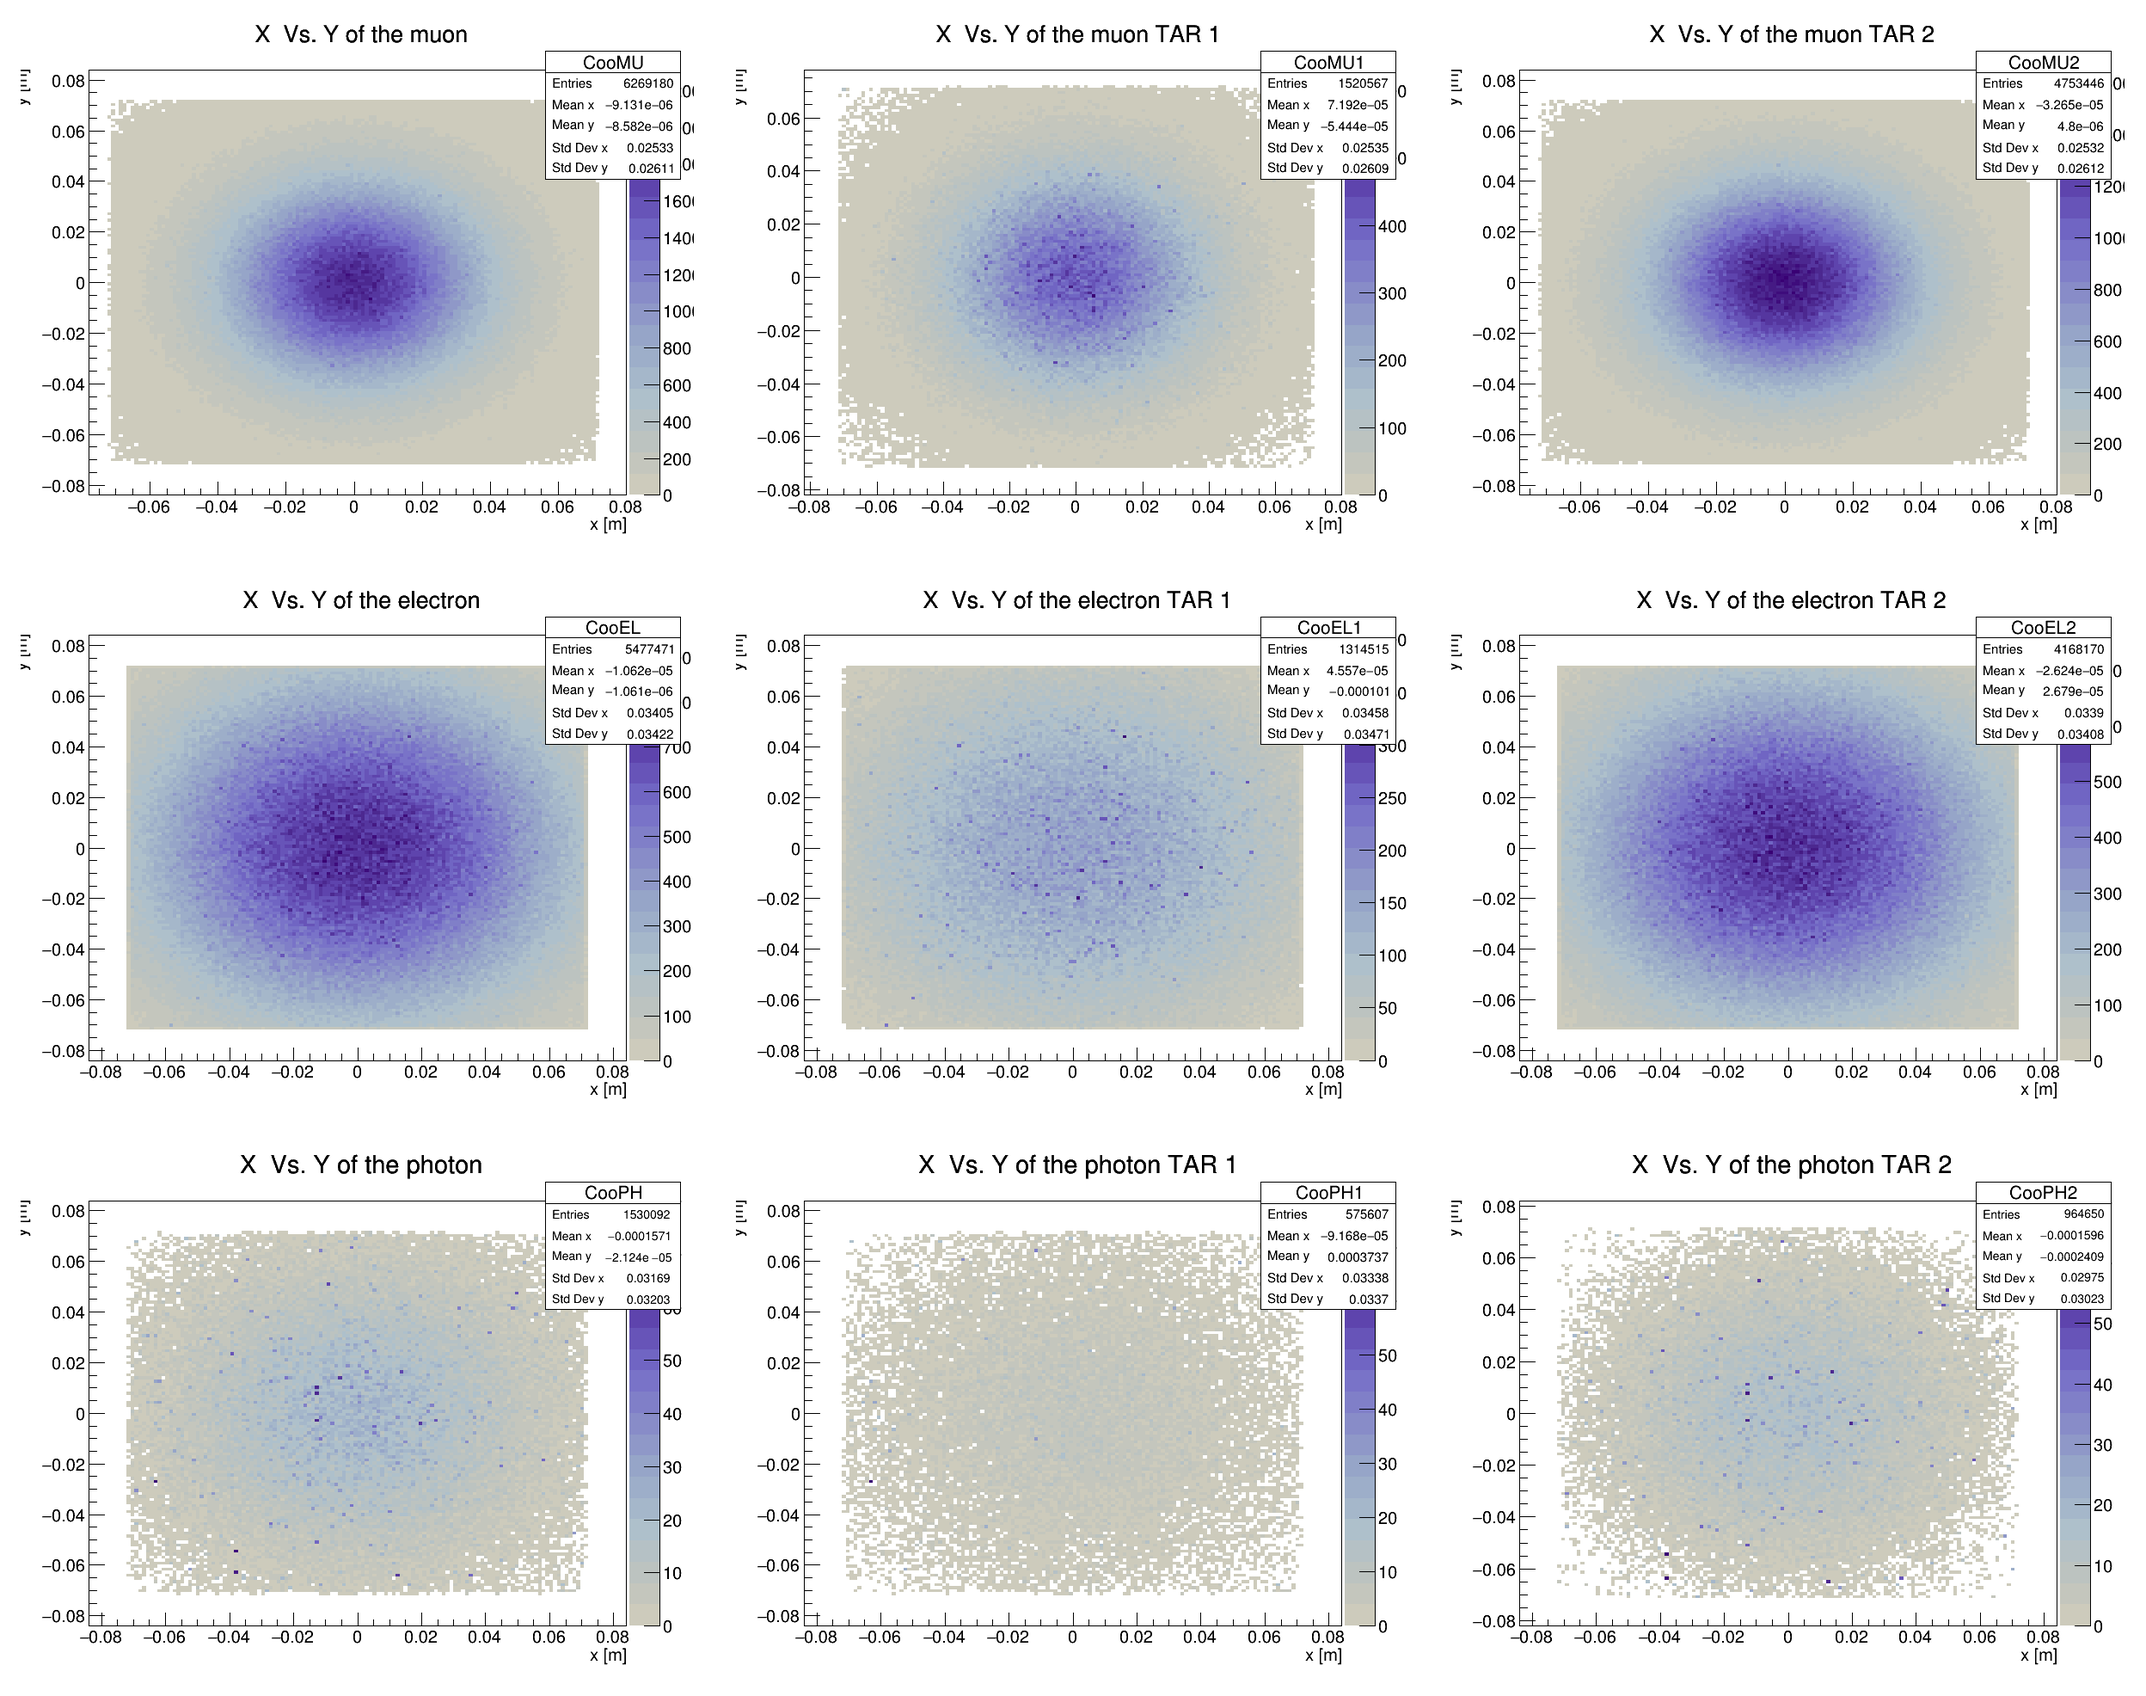
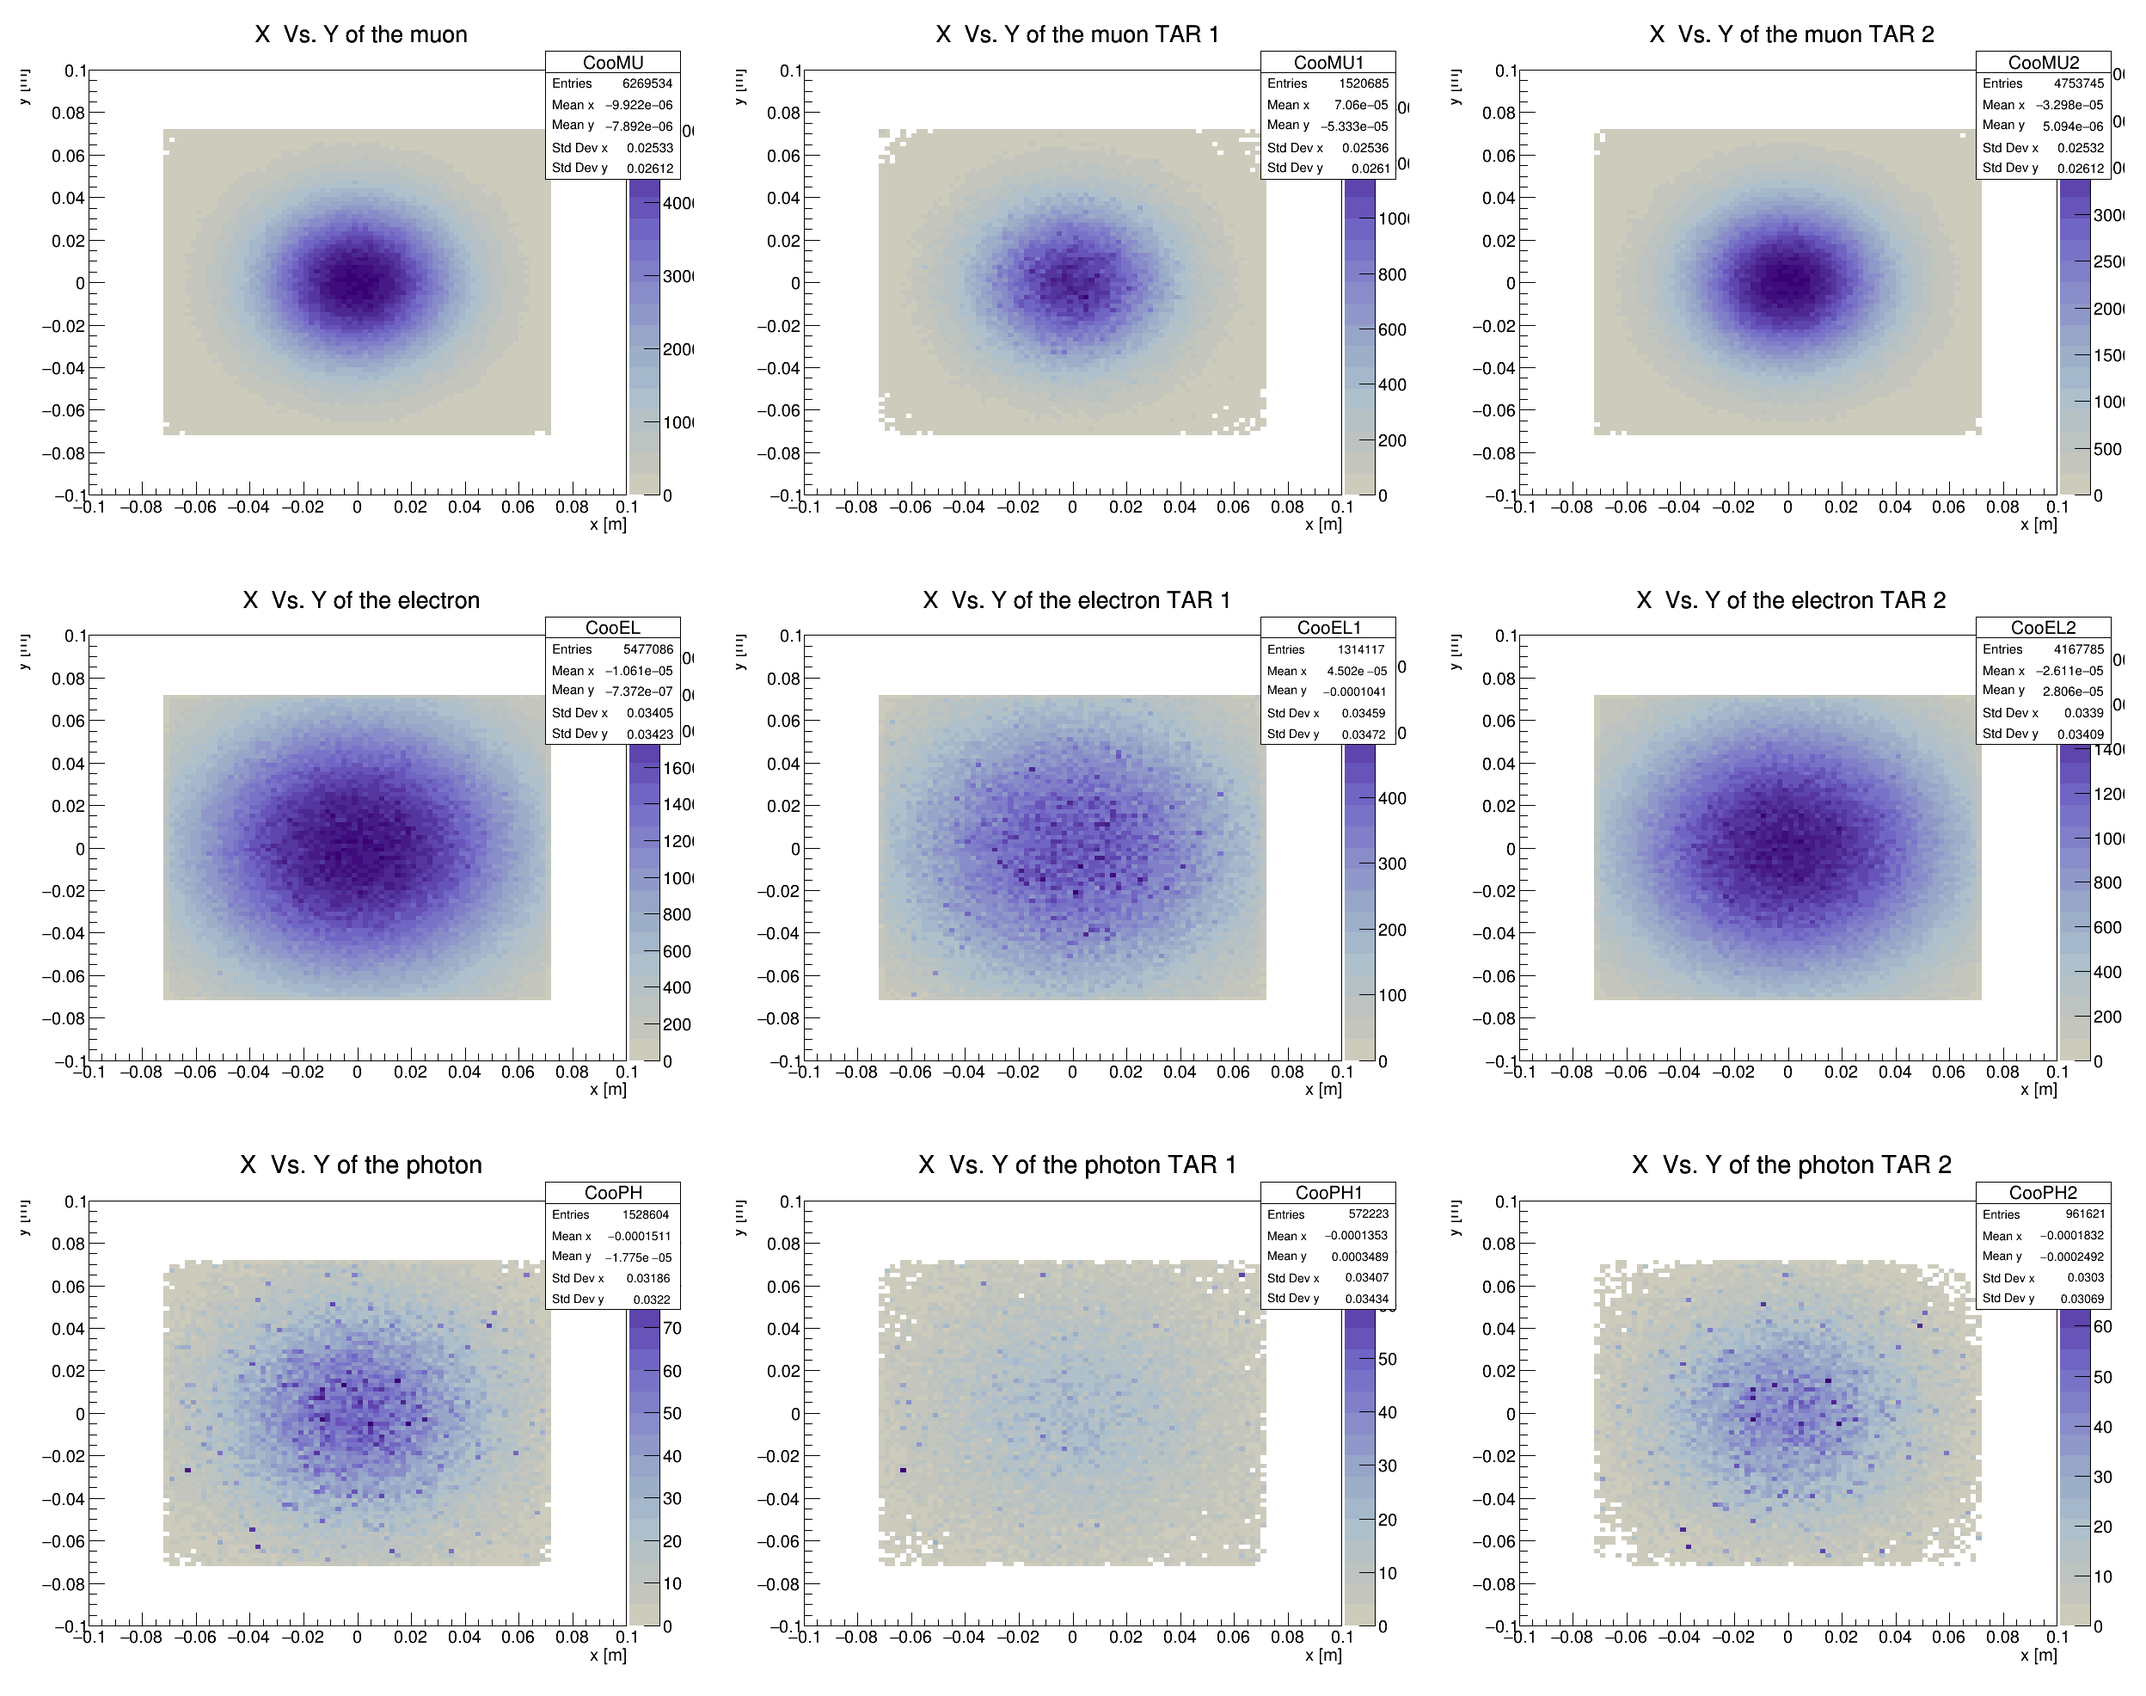
change

diff --git a/nextLO.C b/nextLO.C
@@ -97,7 +97,7 @@ TH2F  *Th_E_el2  = new TH2F("ThEel2" , " Theta el Vs. E_ECAL TAR 2",180,0,0.1,70
     else 
     {  E_ECAL=detKinBeamRot_Ee;}
 
-      if (E_ECAL>0.2){
+      if (E_ECAL>1){
         if (abs(detKinBeamRot_cooXmu) < 0.07125 && abs(detKinBeamRot_cooYmu) < 0.07125)
         {
             
